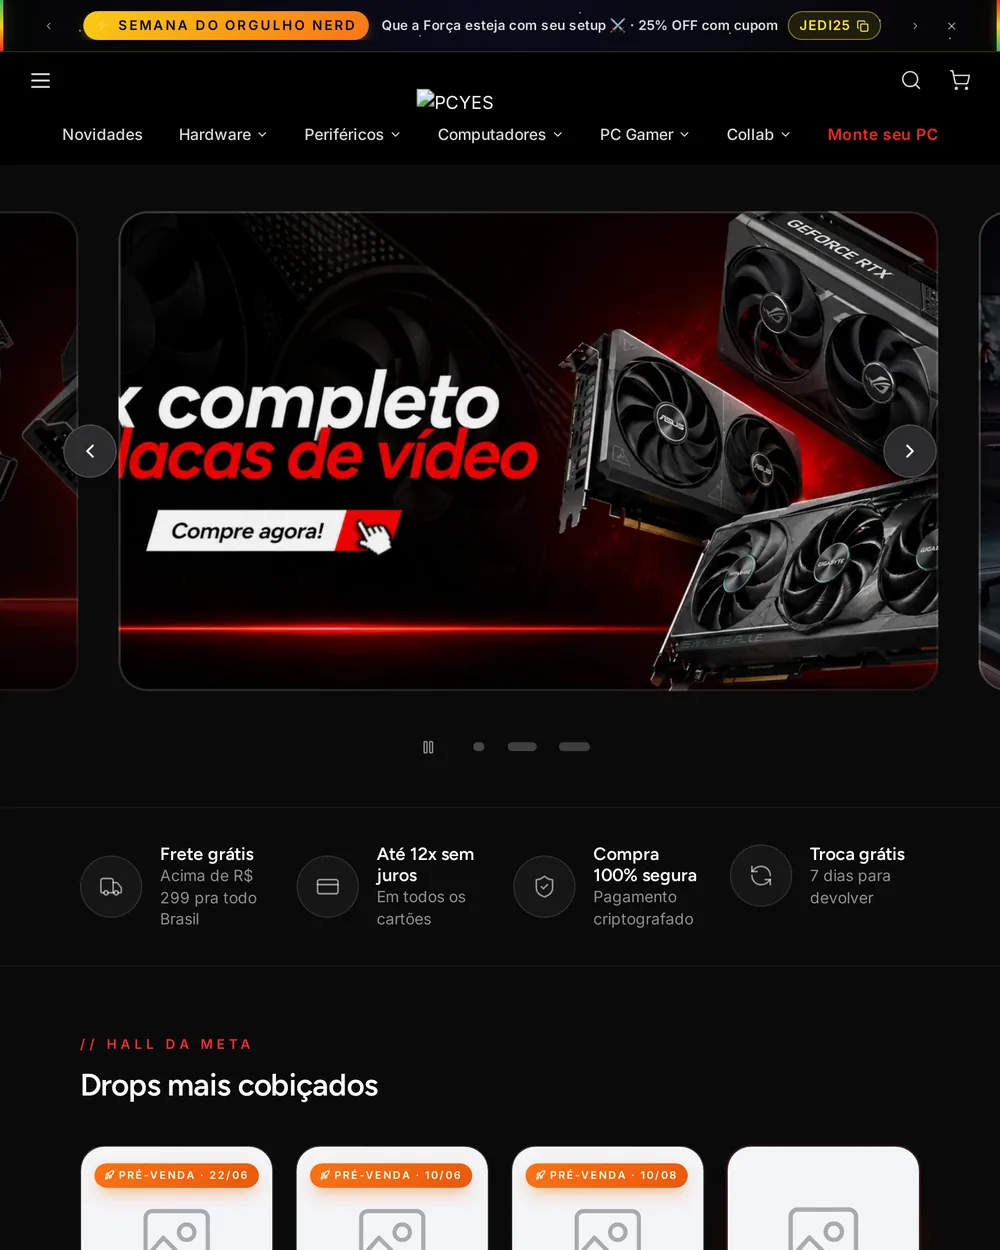
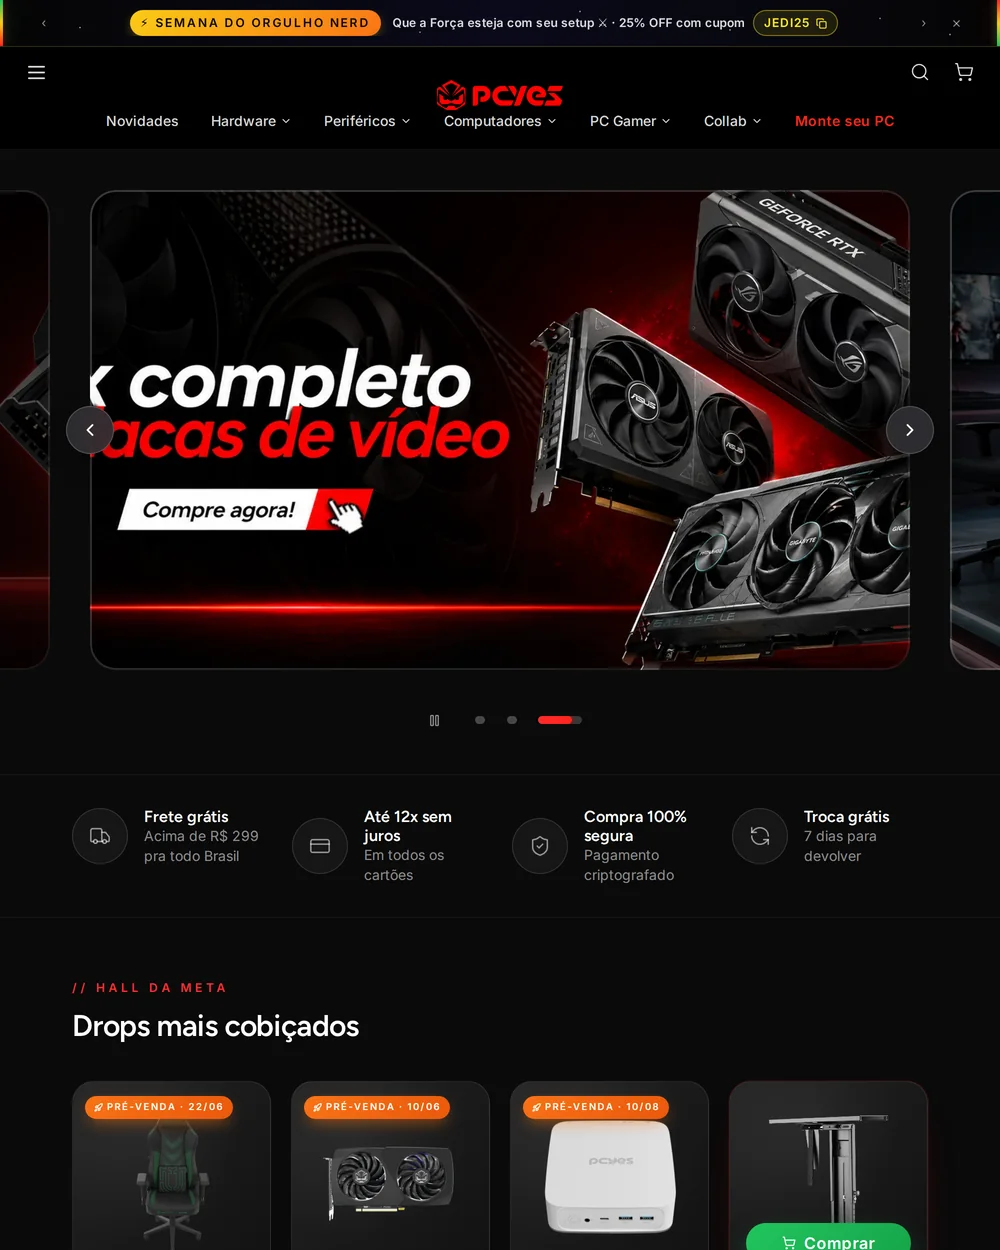
fix(pcyes): reprints do case, sem pop-up e com as imagens carregadas
Os prints da PCYES tinham o pop-up de newsletter cobrindo a tela inteira e
o logo/produtos ainda sem carregar. Recapturei tudo do código-fonte rodando
local (v3-codigo-fonte), com o banner de cookies dispensado e o widget do
VLibras fora do enquadramento.

A solução agora tem cinco telas na ordem do caminho de compra: home
orientada a produto, vitrine com compra direta, página de produto com preço
fixo, checkout com as formas de pagamento na primeira dobra e o par mobile.
Capa, capa alta e o lado "depois" do antes/depois também foram refeitos.

diff --git a/volume/data.jsx b/volume/data.jsx
@@ -79,8 +79,14 @@ const CHAPTERS = [
       t: "Marca presente, produto no eixo",
       p: ["Em vez de escolher entre valor de marca e conversão, separei as camadas: a marca aparece em momentos específicos e o caminho de compra passa a ser o eixo do site.",
           "Home, vitrine e checkout reconstruídos para encurtar a distância entre entrar e comprar."],
-      slots: 3,
-      shots: ["volume/assets/projetos/pcyes/s1.webp", "volume/assets/projetos/pcyes/s2.webp", "volume/assets/projetos/pcyes/s3.webp"],
+      slots: 5,
+      /* na ordem do caminho de compra: home orientada a produto, vitrine com
+         compra direta, página de produto com preço fixo, checkout com as
+         formas de pagamento na primeira dobra e o par mobile — vitrine que
+         compra direto e a barra de preço fixa na base da tela. */
+      shots: ["volume/assets/projetos/pcyes/s1.webp", "volume/assets/projetos/pcyes/s2.webp",
+              "volume/assets/projetos/pcyes/s3.webp", "volume/assets/projetos/pcyes/s4.webp",
+              "volume/assets/projetos/pcyes/s5.webp"],
     },
     /* o par que sustenta o case: a V1 e a V2 no mesmo enquadramento */
     antesDepois: {
